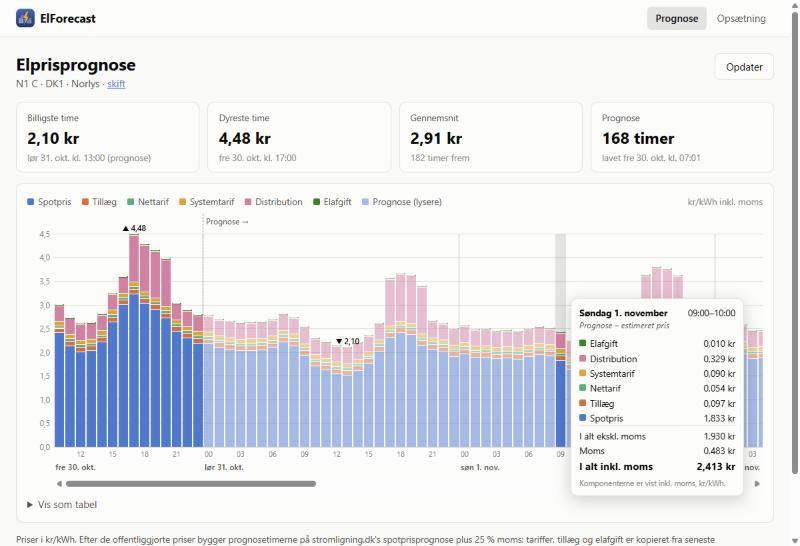
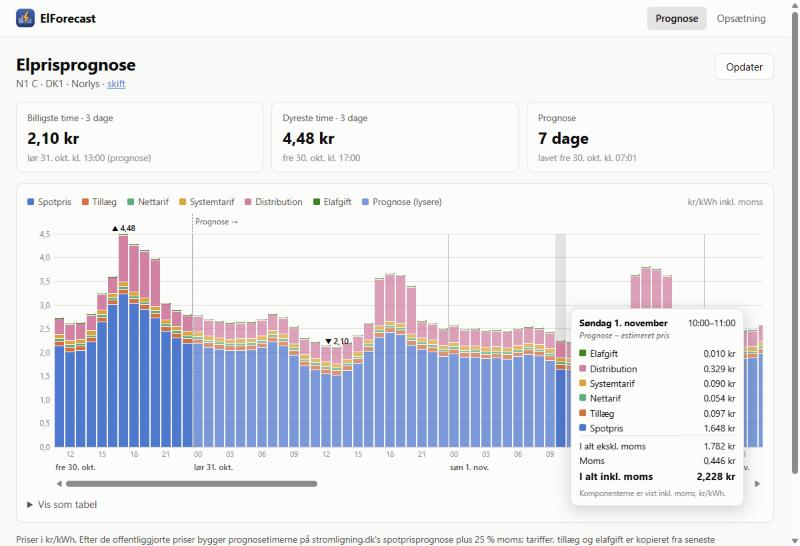
Tone down forecast fading, show forecast days, limit cheapest/priciest
- Forecast bars at 75 % opacity instead of 50 % (--forecast-opacity).
- Drop the average tile; the forecast tile shows days instead of hours.
- Cheapest and priciest hour (tiles and chart marks) are picked from
  today and the next two days only.
- README text and screenshot updated to match.

diff --git a/ElForecast/wwwroot/css/app.css b/ElForecast/wwwroot/css/app.css
@@ -13,6 +13,7 @@
     --accent-ink: #ffffff;
     --error-bg: #fde8e8;
     --warn-bg: #fff4d6;
+    --forecast-opacity: .75;   /* forecast bars: a little lighter than published prices */
     --s1: #2a78d6; --s2: #eb6834; --s3: #1baf7a; --s4: #eda100; --s5: #e87ba4; --s6: #008300;
 }
 @media (prefers-color-scheme: dark) {
@@ -127,7 +128,7 @@ main { flex: 1; width: 100%; max-width: 1280px; margin: 0 auto; padding: 24px; }
 .legend-item { display: inline-flex; align-items: center; gap: 6px; }
 .legend-unit { margin-left: auto; color: var(--muted); }
 .swatch { display: inline-block; width: 10px; height: 10px; border-radius: 2px; flex: none; }
-.swatch.forecast { opacity: .5; }
+.swatch.forecast { opacity: var(--forecast-opacity); }
 .s1 { background: var(--s1); } .s2 { background: var(--s2); } .s3 { background: var(--s3); }
 .s4 { background: var(--s4); } .s5 { background: var(--s5); } .s6 { background: var(--s6); }
 
@@ -151,7 +152,7 @@ main { flex: 1; width: 100%; max-width: 1280px; margin: 0 auto; padding: 24px; }
 .bar.hover::before { background: var(--border); }
 .seg { position: absolute; left: 1px; right: 1px; border-top: 1px solid var(--surface); }
 .seg.top { border-radius: 4px 4px 0 0; border-top: none; }
-.bar.forecast .seg { opacity: .5; }
+.bar.forecast .seg { opacity: var(--forecast-opacity); }
 .bar.hover .seg { opacity: 1; }
 
 .callout {

diff --git a/ElForecast/README.md b/ElForecast/README.md
@@ -53,8 +53,11 @@ local builds. The copyright line comes from `<Copyright>` in the same file.
 - Horizontal gridlines every 0.50 kr. The price axis stays fixed while the bars scroll
   sideways when they do not fit the width.
 - A vertical line marks each midnight, and the date is written under it. A dashed line labelled
-  *Prognose →* marks where published prices end. Forecast bars are drawn lighter.
-- The cheapest and most expensive hours are labelled with their total price.
+  *Prognose →* marks where published prices end. Forecast bars are drawn slightly lighter
+  (`--forecast-opacity` in `app.css`).
+- The cheapest and most expensive hours are labelled with their total price. Like the tiles
+  above the chart, they only consider today and the next two days (`NearDays` in
+  `Pages/Home.razor`, passed to the chart as `HighlightUntil`).
 - Hovering over a bar (or tapping it) shows its components, the total ex. VAT, the VAT and the
   total incl. VAT. Scrolling the chart hides the tooltip.
 - *Vis som tabel* shows the same data as a table.

diff --git a/README.md b/README.md
@@ -40,12 +40,14 @@ the forecast opens straight away.
   date below it.
 - Bars to the right of the dashed **Prognose** line are forecasts and are drawn in lighter
   colours. Bars to the left are the official prices.
-- ▼ marks the cheapest hour and ▲ the most expensive one.
+- ▼ marks the cheapest hour and ▲ the most expensive one, picked from today and the next two
+  days. Further out the forecast is too uncertain to plan by.
 - Hover over a bar, or tap it on a phone, to see the exact price and what it is made of.
 - Scroll sideways to see more days. **Vis som tabel** shows the same numbers as a table.
 
-The boxes at the top show the cheapest and the most expensive hour, the average price, and
-when the forecast was last updated. Press **Opdater** for fresh numbers.
+The boxes at the top show the cheapest and the most expensive hour in the same three days,
+and how many days the forecast covers and when it was last updated. Press **Opdater** for
+fresh numbers.
 
 ## StromPriser: the Windows app
 
